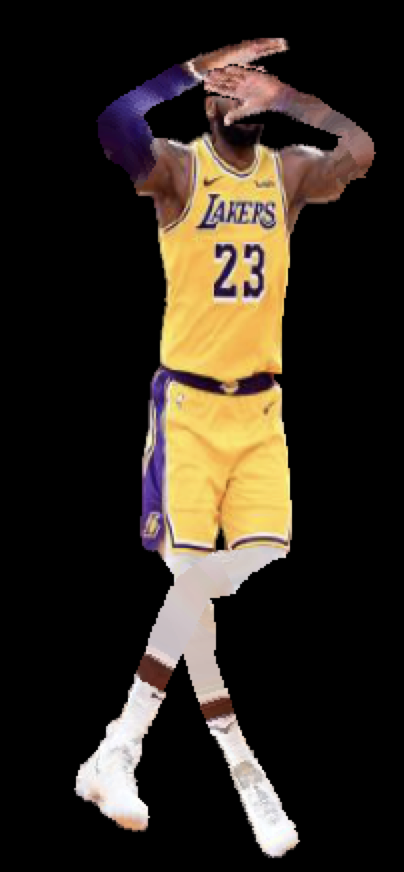
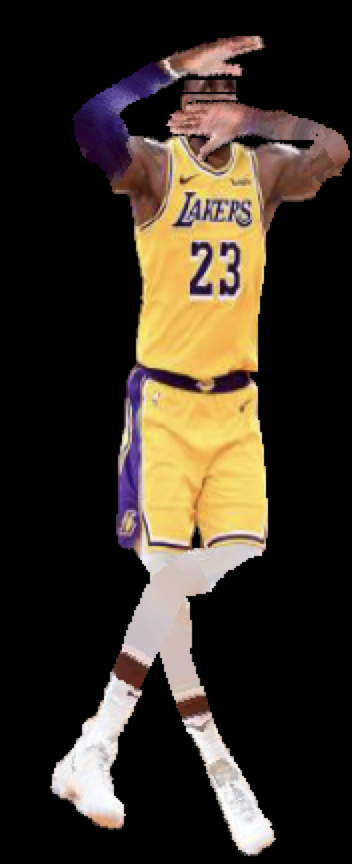
another picture

Changed region(s): [[0.1875, 0.0312, 1.0, 1.0], [0.125, 0.7188, 0.4688, 0.9688], [0.375, 0.6875, 0.4062, 0.7188]]

diff --git a/main.py b/main.py
@@ -40,7 +40,7 @@ contourPointsMap1Refine, contourPointsMap2Refine, contourPointsMap3Refine = util
 #     ww, hh = point
 #     workImage[hh, ww] = (255, 0, 0)
     
-contourPointsMap1Refine, contourPointsMap2Refine, contourPointsMap3Refine = util.deform(inputContourPointsRefine, poseLines[5], poseLines[6], -math.pi/8, -math.pi/2, False)  
+contourPointsMap1Refine, contourPointsMap2Refine, contourPointsMap3Refine = util.deform(inputContourPointsRefine, poseLines[5], poseLines[6], -math.pi/8, -math.pi/1.7, False)  
 # for point in contourPointsMap1Refine:
 #     ww, hh = point
 #     workImage[hh, ww] = (0, 0, 255)
